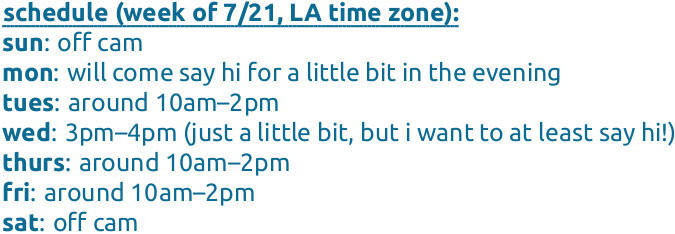
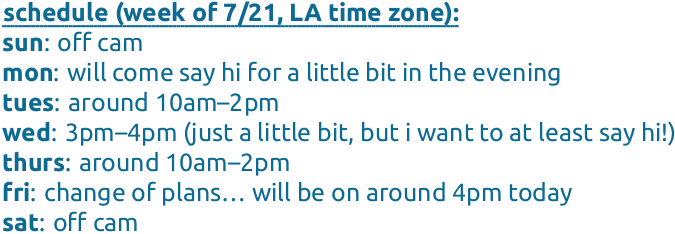
Update schedule

Changed region(s): [[0.0622, 0.7778, 0.8711, 0.8974]]

diff --git a/schedule/schedule.tex b/schedule/schedule.tex
@@ -35,7 +35,7 @@
 	\textbf{tues}: around 10am--2pm\\
 	\textbf{wed}: 3pm--4pm (just a little bit, but i want to at least say hi!)\\
 	\textbf{thurs}: around 10am--2pm\\
-	\textbf{fri}: around 10am--2pm\\
+	\textbf{fri}: change of plans\ldots\ will be on around 4pm today\\
 	\textbf{sat}: off cam
 
 \end{document}
